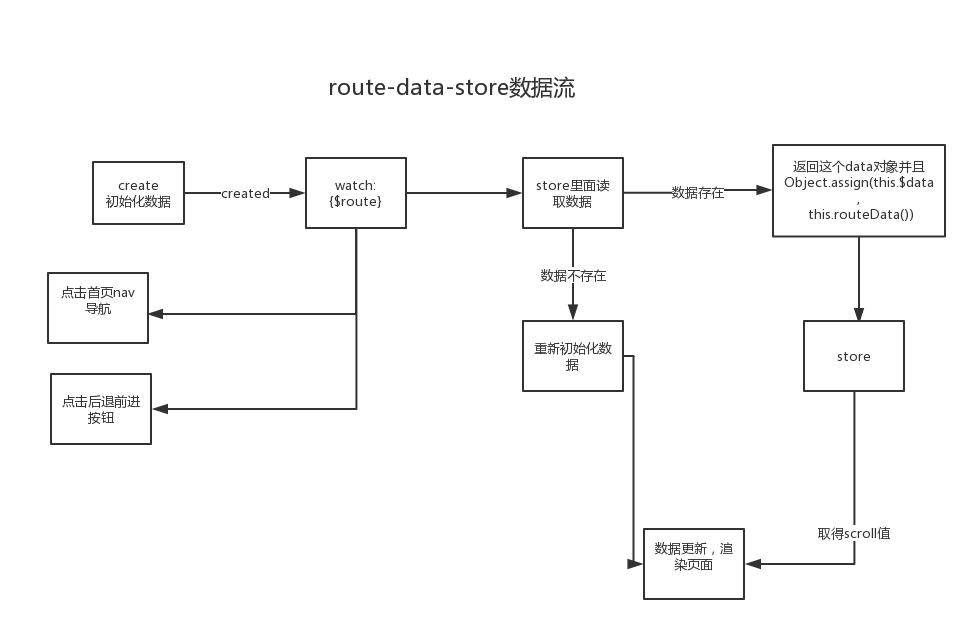
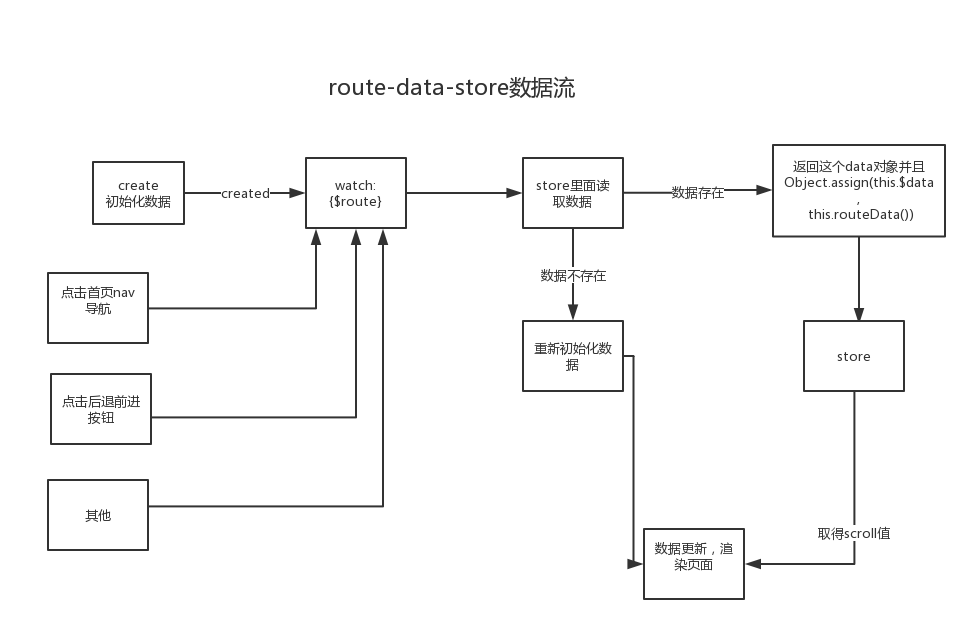
readme

diff --git a/README.md b/README.md
@@ -1,30 +1,19 @@
-# cnode
+# cnode 社区
 
-> A Vue.js project
-
-## Build Setup
-
-``` bash
-# install dependencies
+## 本地运行项目
+```cli
 npm install
-
-# serve with hot reload at localhost:8080
 npm run dev
-
-# build for production with minification
-npm run build
-
-# build for production and view the bundle analyzer report
-npm run build --report
-
-# run unit tests
-npm run unit
-
-# run e2e tests
-npm run e2e
-
-# run all tests
-npm test
+```
+## 构建
+```cli
+npm run dist
 ```
 
-For detailed explanation on how things work, checkout the [guide](http://vuejs-templates.github.io/webpack/) and [docs for vue-loader](http://vuejs.github.io/vue-loader).
+## graph
+缓存内容组件
+![](https://olyy111.github.io/cnode/project-graph/route-data-store.png)
+缓存store的数据流
+![](https://olyy111.github.io/cnode/project-graph/store.png)
+权限管理
+![](https://olyy111.github.io/cnode/project-graph/authorization.png)
